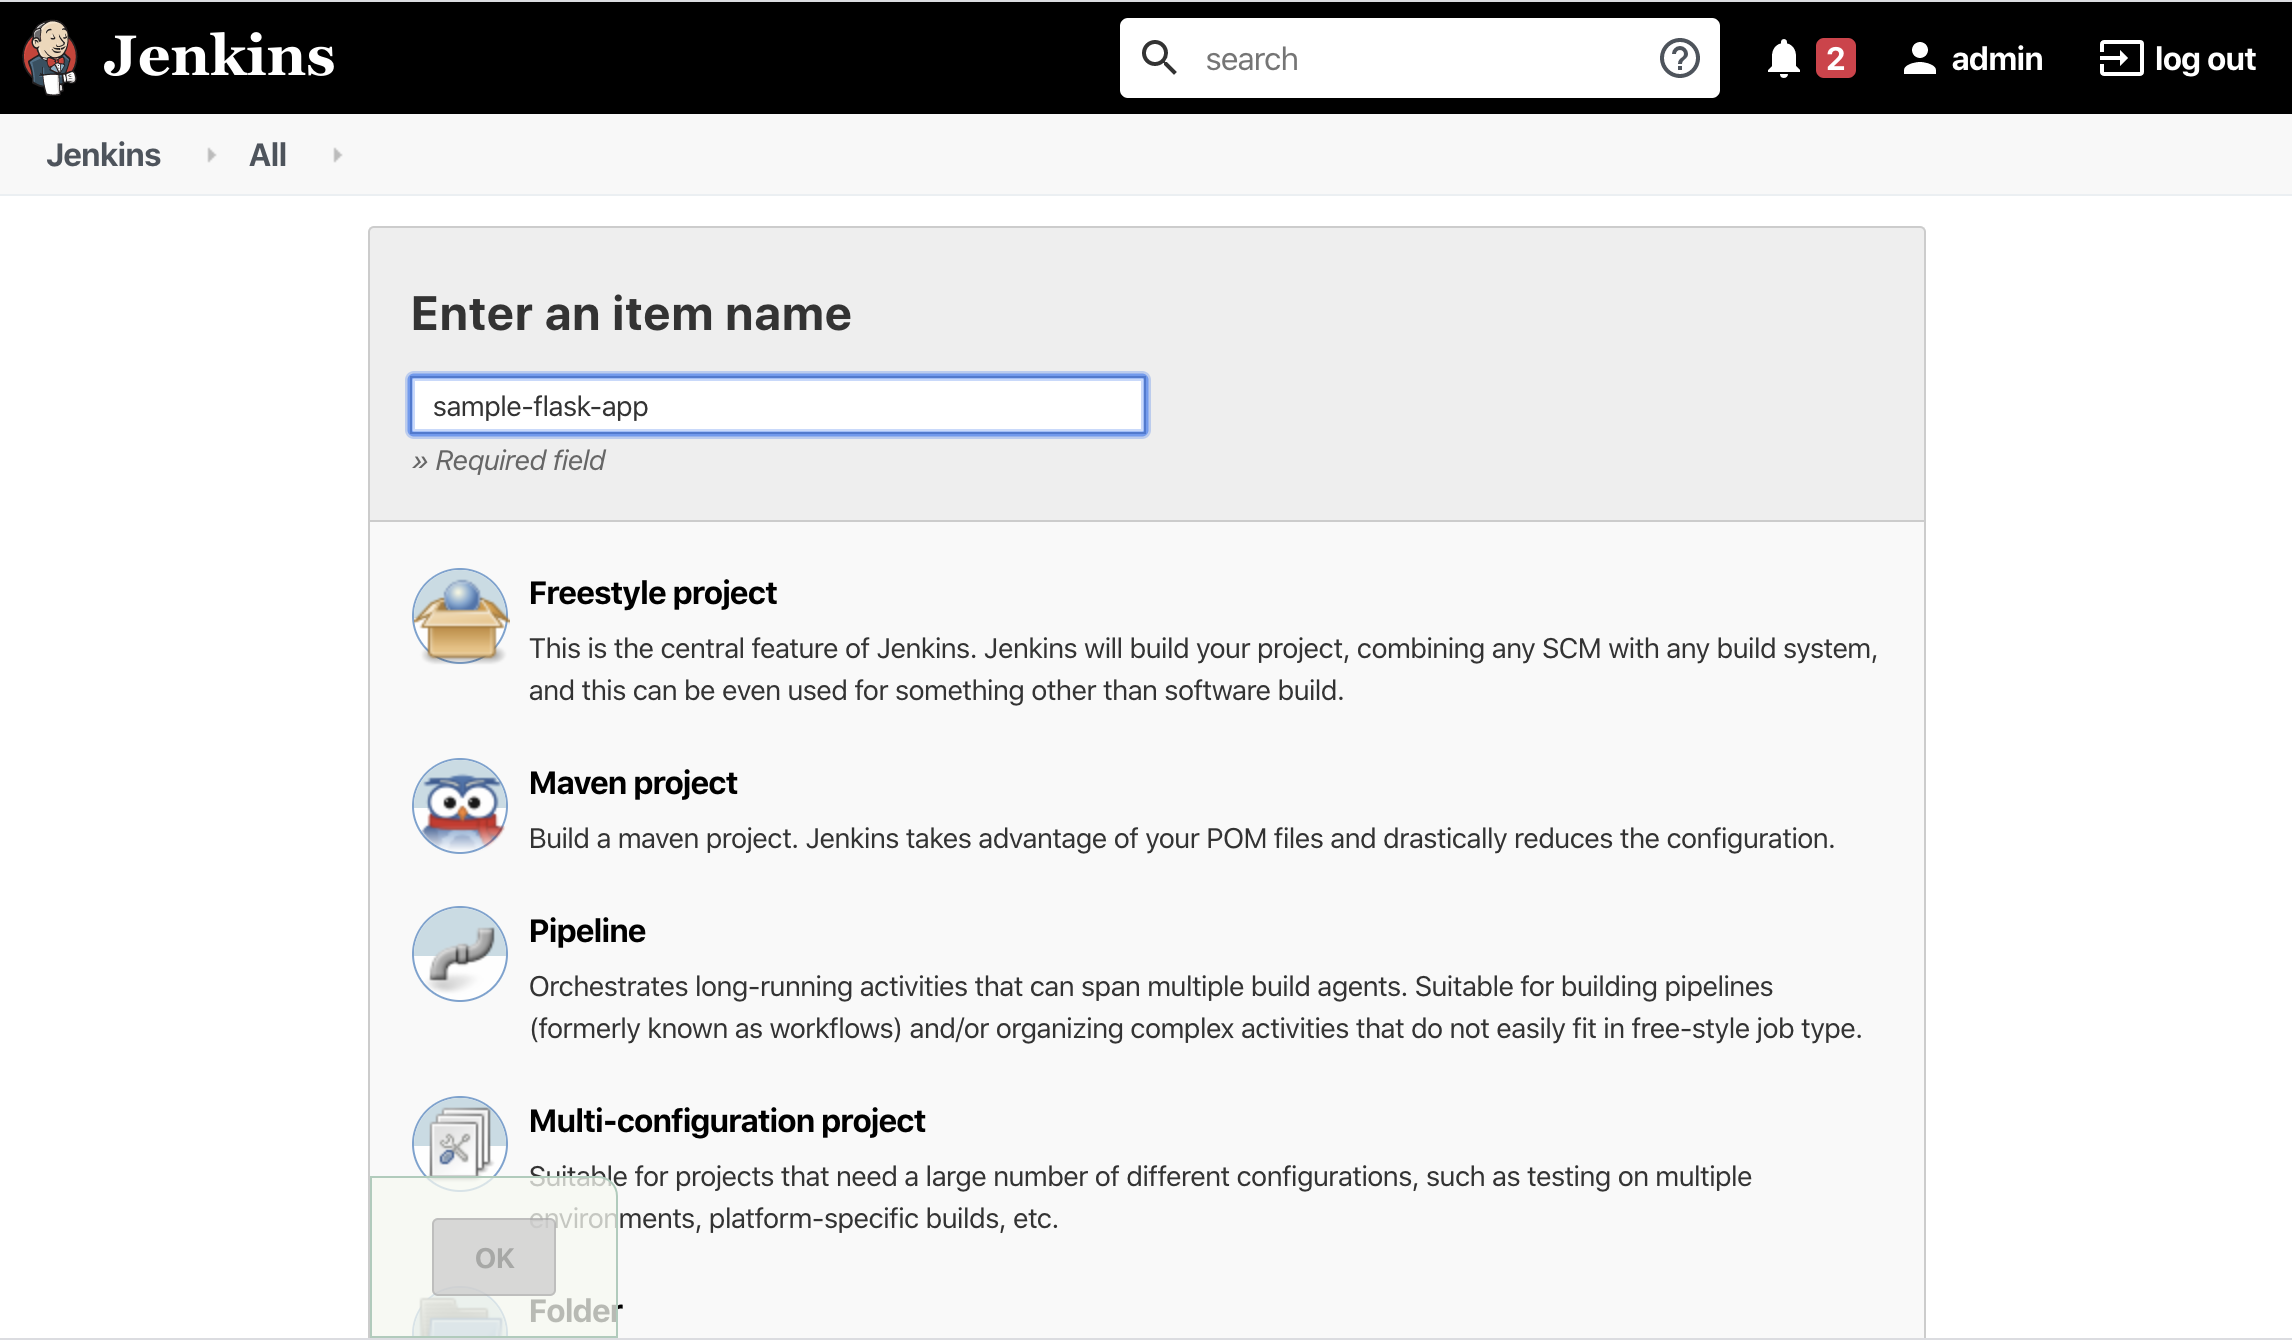
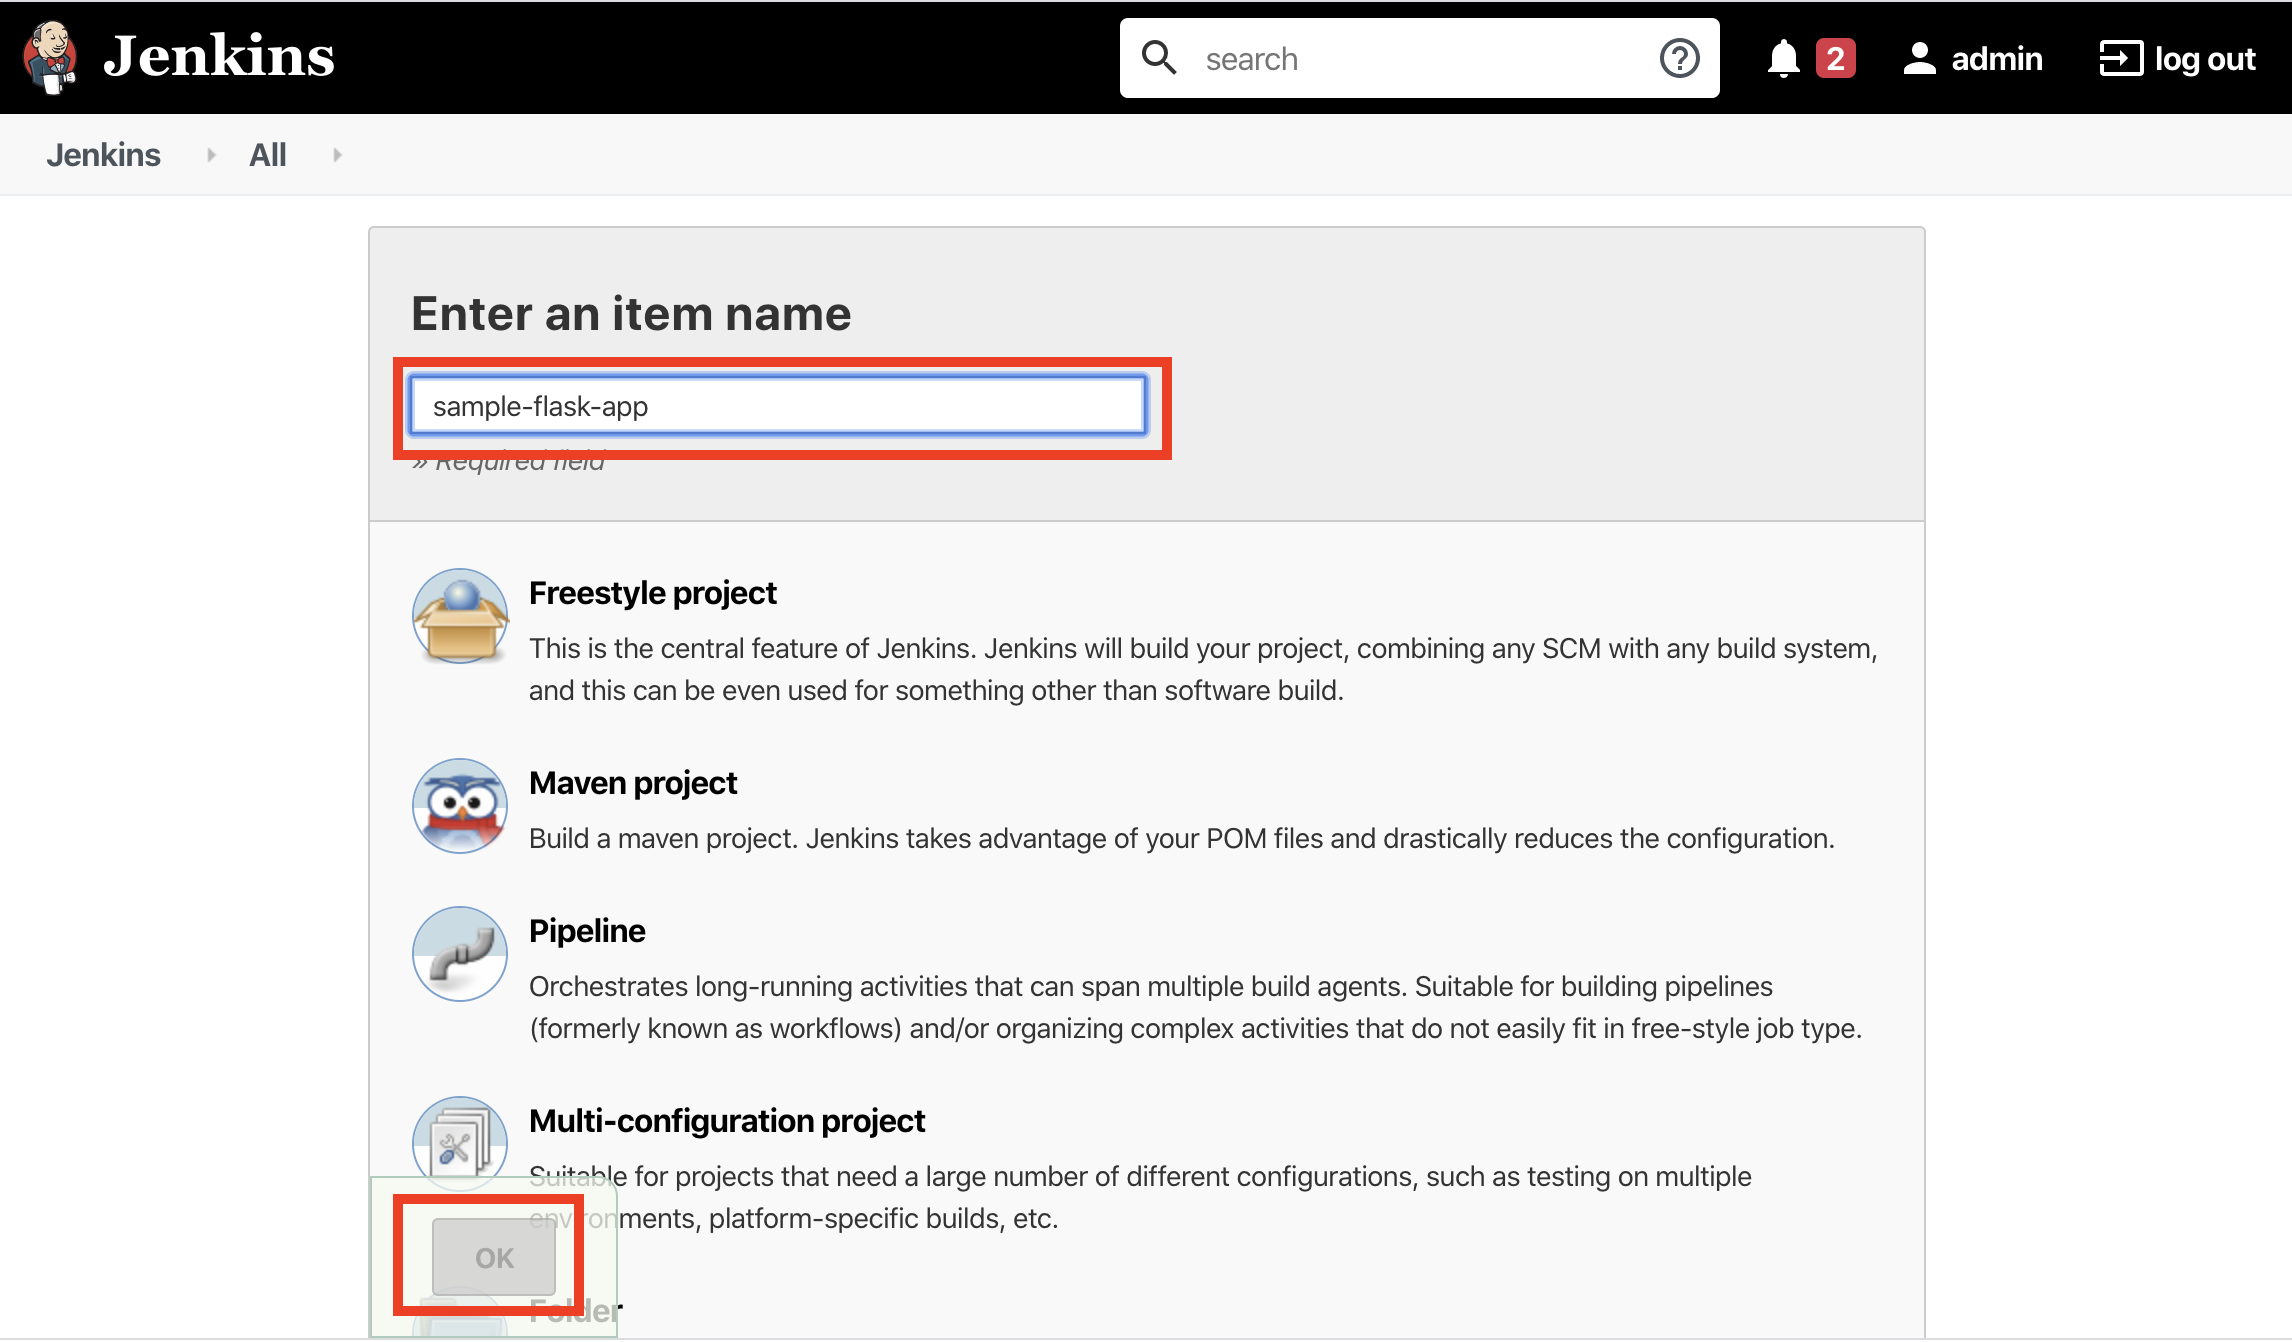
update images to have focus boxes. move text in builiding instructions.

Changed region(s): [[0.1549, 0.2444, 0.5266, 0.3666], [0.1549, 0.886, 0.2788, 1.0]]

diff --git a/building-the-pipeline.md b/building-the-pipeline.md
@@ -1,14 +1,14 @@
 # Building the pipeline
 
-From the side menu select 'New item'
+From the side menu select `New item`.
 
 ![](images/8.png)
 
-Enter the name 'sample-flask-app' for the project, select 'Feestyle project' and click 'OK'
+Enter the name `sample-flask-app` for the project, select `Feestyle project` and click `OK`.
 
 ![](images/9.png)
 
-Under the heading 'Source Code Management', select the 'Git' radio button.
+Under the heading `Source Code Management`, select the `Git` radio button.
 
 Enter the URL of your fork of the `sample-flask-app` repository. e.g. `https://github.com/wilvk/sample-flask-app`
 
@@ -27,9 +27,9 @@ sleep 30
 docker-compose logs
 ```
 
-![](images/13.png)
+Then select `Save`.
 
-Select `Save`.
+![](images/13.png)
 
 Then from the main Jenkins menu select `Build Now`.
 
